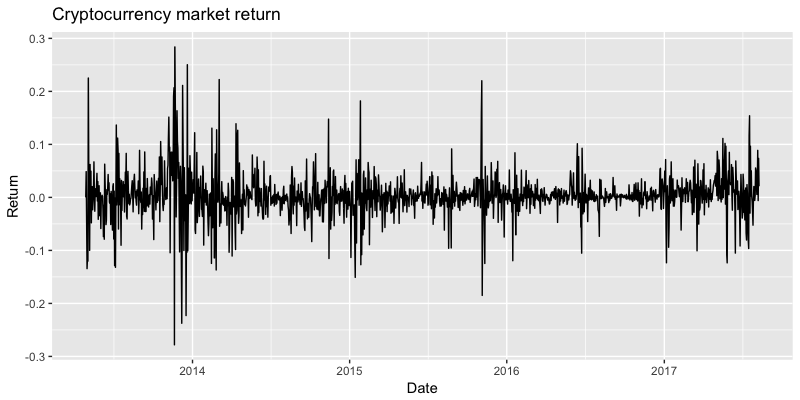
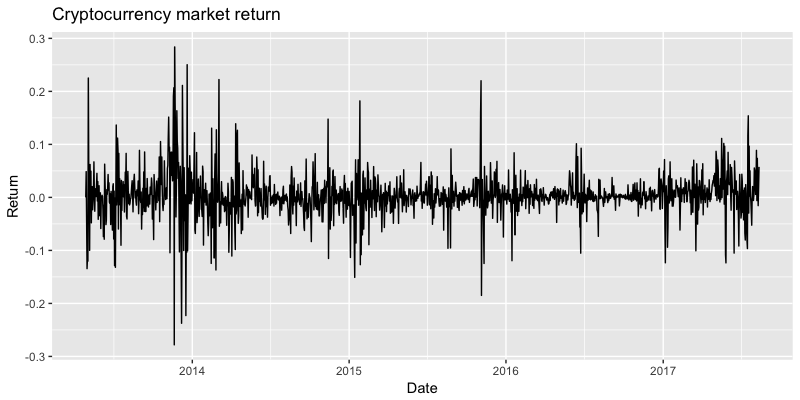
Updated with new data

diff --git a/README.md b/README.md
@@ -7,7 +7,7 @@ Especially in light of the increasing number of successful coins and [decreasing
 
 ## Progress
 
-*Data updated 09/08/2017. Restricted some visualizations to data from 2017*
+*Data updated 12/08/2017. Restricted some visualizations to data from 2017*
 
 This is a work in progress. Steps taken so far:
 
